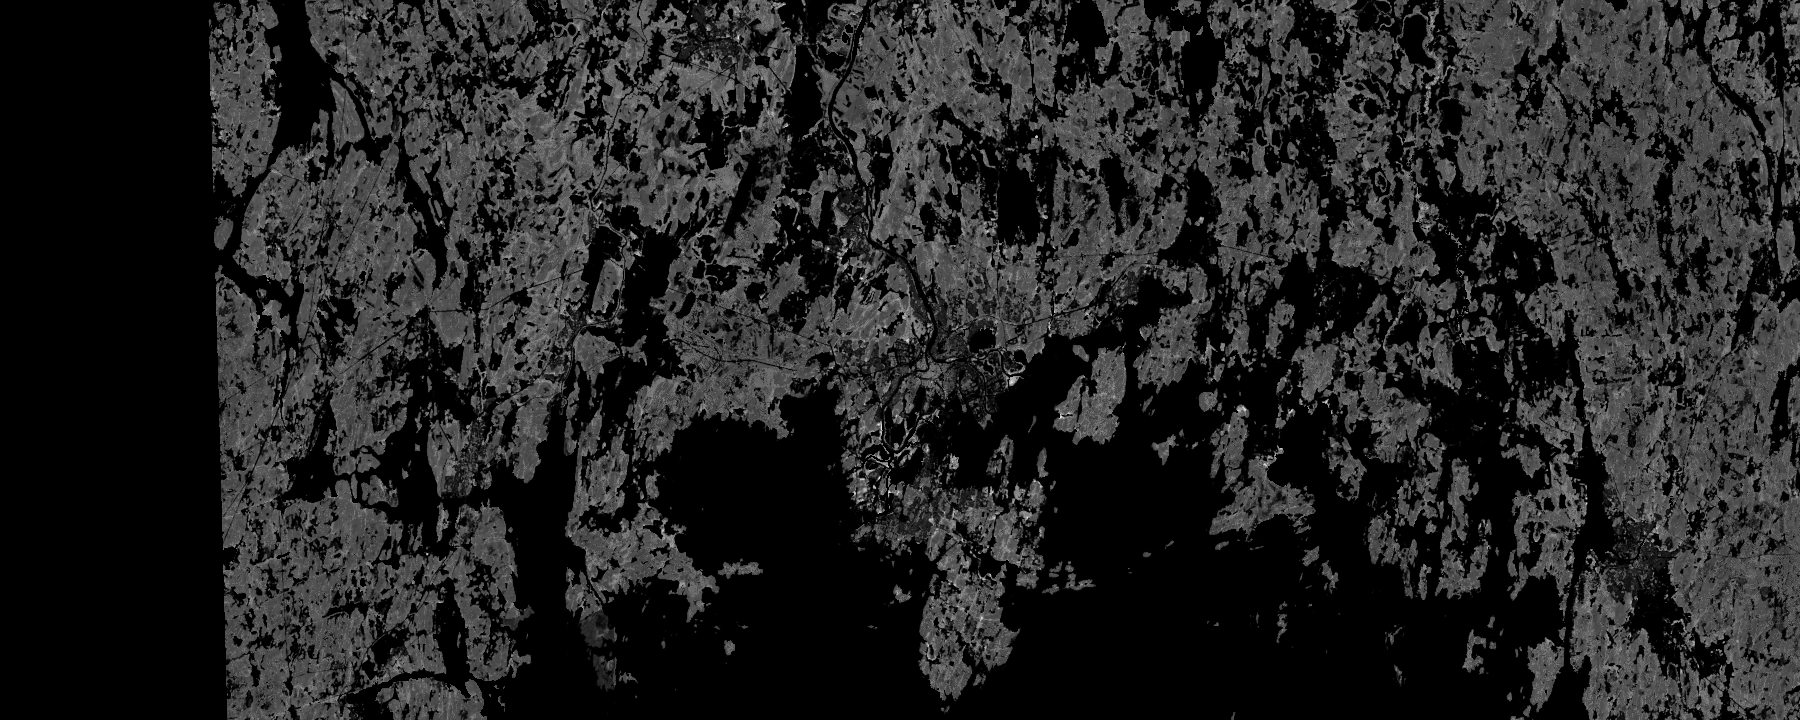
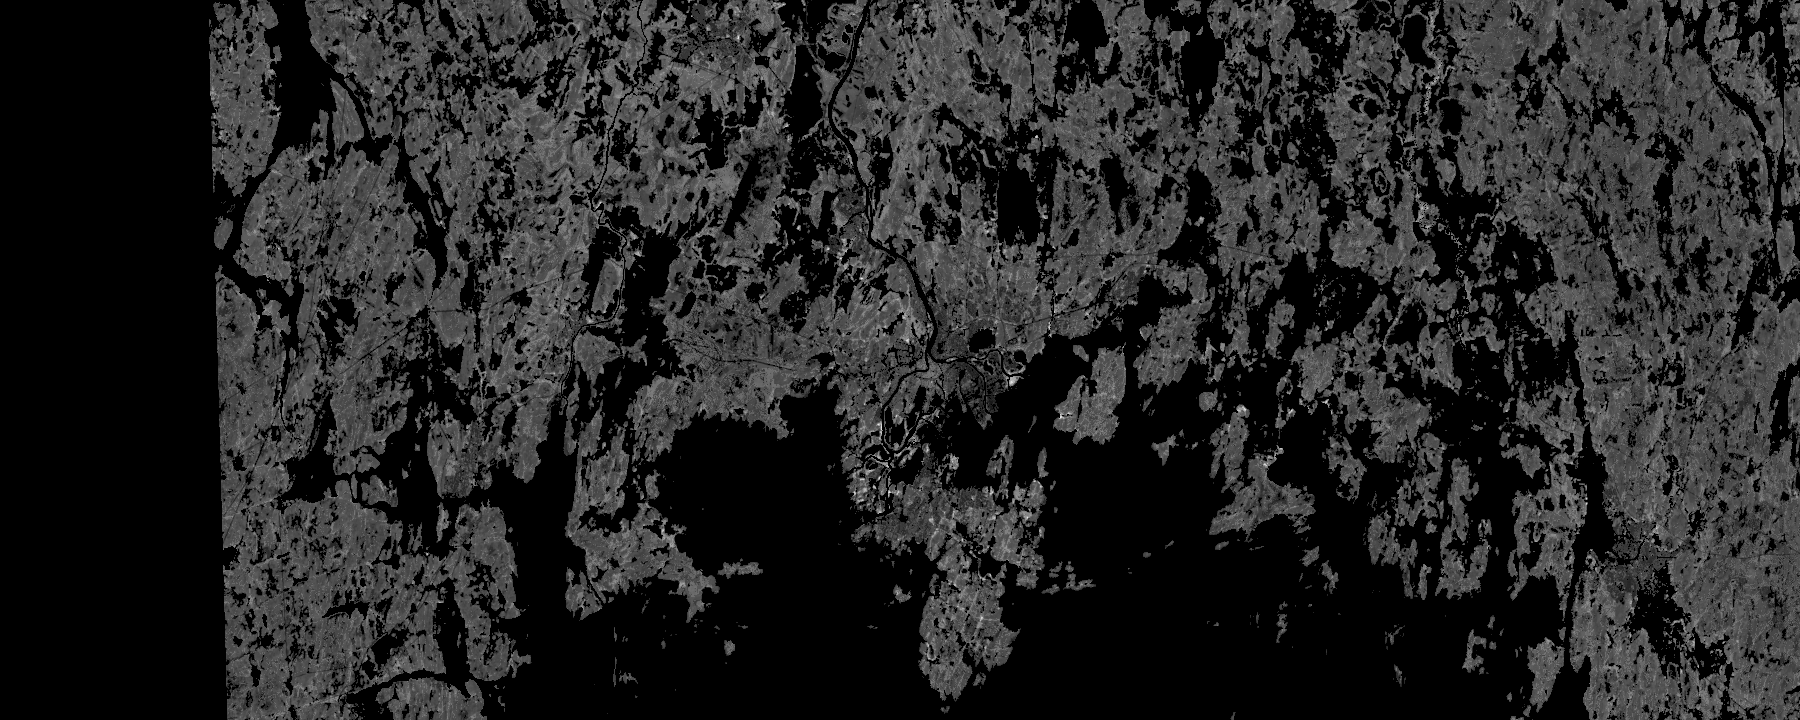
Align habitat suitability with forest cover

diff --git a/index.html b/index.html
@@ -697,7 +697,7 @@ svg.leaflet-image-layer.leaflet-interactive path {
   :root{--bg:#f5f4ef;--card:#fff;--ink:#23261f;--muted:#6c7162;--line:#e4e1d7;--accent:#3a3a34}
   *{box-sizing:border-box}
   body{margin:0;font-family:-apple-system,BlinkMacSystemFont,"Segoe UI",Roboto,Helvetica,Arial,sans-serif;
-    background:var(--bg);color:var(--ink);line-height:1.55}
+    background:var(--bg);color:var(--ink);line-height:1.55;overflow-x:hidden}
   .wrap{max-width:1080px;margin:0 auto;padding:0 18px 70px}
   header.hero{background:linear-gradient(135deg,#242a20,#3c4632 70%,#556a40);color:#fff;padding:40px 18px 34px;text-align:center}
   header.hero h1{margin:0 auto;max-width:900px;font-size:2rem;line-height:1.15}
@@ -719,7 +719,7 @@ svg.leaflet-image-layer.leaflet-interactive path {
   .banner.redlist{background:#fdf1dd;color:#8a5a12;border:1px solid #eecfa0}
   h2{font-size:1.35rem;margin:34px 0 4px;color:#2f3a26}
   .lead{color:var(--muted);margin:0 0 14px;max-width:820px}
-  .card{background:var(--card);border:1px solid var(--line);border-radius:16px;padding:20px;box-shadow:0 4px 14px rgba(30,40,20,.05);margin-top:14px}
+  .card{background:var(--card);border:1px solid var(--line);border-radius:16px;padding:20px;box-shadow:0 4px 14px rgba(30,40,20,.05);margin-top:14px;min-width:0}
   .fc{display:grid;grid-template-columns:1fr 1fr 1fr;gap:14px;margin-top:14px}
   .fcell{background:var(--card);border:1px solid var(--line);border-left:4px solid var(--sp);border-radius:12px;padding:14px 16px}
   .fcell h3{margin:0 0 6px;font-size:.95rem;color:#2f3a26;display:flex;align-items:center;gap:7px}
@@ -729,11 +729,16 @@ svg.leaflet-image-layer.leaflet-interactive path {
   .legend{font-size:.8rem;color:var(--muted);display:flex;gap:16px;flex-wrap:wrap;margin-top:10px;align-items:center}
   .legend b{color:var(--ink)}
   .sw-hex{display:inline-block;width:13px;height:13px;background:#e8552f;border-radius:3px;vertical-align:middle;margin-right:4px}
-  .sw-habitat{display:inline-block;width:48px;height:10px;border-radius:5px;vertical-align:middle;margin-right:5px;background:linear-gradient(90deg,#fae13c,#e8a317,#9b3152)}
+  .habitat-legend{display:inline-flex;gap:8px;align-items:center;flex-wrap:wrap}
+  .habitat-key{display:inline-flex;gap:4px;align-items:center;white-space:nowrap}
+  .habitat-key i{display:inline-block;width:15px;height:11px;border-radius:3px;border:1px solid rgba(20,45,25,.18)}
+  .habitat-key .candidate{background:#ebbe3a}
+  .habitat-key .good{background:#48844f}
+  .habitat-key .best{background:#185532}
   .map-tools{display:grid;grid-template-columns:minmax(260px,1fr) 1.7fr;gap:12px;margin-top:12px}
   .model-box{background:#f3f7ed;border:1px solid #d7e2ca;border-radius:10px;padding:11px 13px;font-size:.82rem;color:#4b5740}
   .model-box b{color:#283423}
-  .model-box button{border:1px solid #526d45;background:#fff;color:#36502e;border-radius:7px;padding:5px 9px;margin-top:7px;cursor:pointer}
+  .model-box button,.model-box select{border:1px solid #526d45;background:#fff;color:#36502e;border-radius:7px;padding:7px 9px;margin-top:7px;cursor:pointer;min-height:36px}
   .model-box button.on{background:#3f5c35;color:#fff}
   .score-pop{min-width:230px}
   .score-pop .score{font-size:1.25rem;font-weight:800;color:var(--sp)}
@@ -768,6 +773,7 @@ svg.leaflet-image-layer.leaflet-interactive path {
   td.num{text-align:right;font-variant-numeric:tabular-nums;font-weight:600;color:#2f3a26}
   .bar{height:8px;background:var(--sp);border-radius:4px;display:inline-block;vertical-align:middle}
   /* coordinate list */
+  #coordList{overflow-x:auto;max-width:100%;min-width:0}
   .coordtbl td{vertical-align:middle}
   .mono{font-variant-numeric:tabular-nums;font-family:ui-monospace,SFMono-Regular,Menlo,monospace;font-weight:600}
   .copybtn{border:1px solid var(--sp);color:var(--sp);background:#fff;border-radius:7px;padding:4px 9px;font-size:.8rem;cursor:pointer;white-space:nowrap}
@@ -841,7 +847,11 @@ svg.leaflet-image-layer.leaflet-interactive path {
   <div class="card">
     <div id="map"></div>
     <div class="legend">
-      <span><span class="sw-habitat"></span><b>Пригодность лесного биотопа:</b> слабая → высокая</span>
+      <span class="habitat-legend"><b>Только лесные кандидаты:</b>
+        <span class="habitat-key"><i class="candidate"></i>40–59</span>
+        <span class="habitat-key"><i class="good"></i>60–74</span>
+        <span class="habitat-key"><i class="best"></i>75–100</span>
+      </span>
       <span><span class="sw-hex"></span><b>Плотность</b> находок (GBIF)</span>
       <span>📍 <b>Свежая находка</b> (см. список ниже)</span>
       <span>🌲 <b>Кандидатный биотоп</b> — описание леса подходит виду; наличие вида в точке не гарантировано</span>
@@ -849,10 +859,16 @@ svg.leaflet-image-layer.leaflet-interactive path {
     </div>
     <div class="map-tools">
       <div class="model-box">
-        <b>Модель Вермланда 12,5 м + грунты SGU</b><br>
-        Породы и структура леса, влажность, песок/морена/глина/торф/скала. Нажми на место или попроси карту найти лучший участок в радиусе 3 км.
+        <b>Лесная маска SLU + пригодность вида</b><br>
+        Цвет показывается только внутри распознанного древостоя. Граница может отличаться от OSM: для проверки включён официальный покров NMD 2023.
         <br><button id="habitatFocus" type="button">Показать Vålberg–Karlstad</button>
         <button id="habitatToggle" class="on" type="button">Слой пригодности включён</button>
+        <label for="habitatThreshold"><br>Показывать оценку от</label>
+        <select id="habitatThreshold">
+          <option value="40" selected>40 · все кандидаты</option>
+          <option value="60">60 · хорошие</option>
+          <option value="75">75 · лучшие</option>
+        </select>
       </div>
       <div class="model-box">
         <b>Что означает число</b><br>
@@ -1151,6 +1167,8 @@ let current='cib', chart=null;
 const map=L.map('map',{scrollWheelZoom:false}).setView([62.5,16.5],4);
 map.createPane('habitatPane');
 map.getPane('habitatPane').style.zIndex=320;
+map.createPane('forestReferencePane');
+map.getPane('forestReferencePane').style.zIndex=300;
 map.createPane('officialForestPane');
 map.getPane('officialForestPane').style.zIndex=340;
 map.createPane('observationsPane');
@@ -1172,14 +1190,15 @@ function sksWms(service,layer,opacity){
     pane:'officialForestPane',attribution:'Skogsstyrelsen'
   });
 }
+const nmdForest=L.tileLayer.wms('https://geodata.naturvardsverket.se/inspire/lc-nmd/ows?',{
+  layers:'LC.LandCoverRaster.Bas_2.0',format:'image/png',transparent:true,opacity:.42,
+  pane:'forestReferencePane',attribution:'NMD / Naturvårdsverket'
+}).addTo(map);
 const officialLayers={
   'SGU · тип грунта':L.imageOverlay('assets/habitat/soil-overlay.png',HABITAT_BOUNDS,{
     pane:'officialForestPane',opacity:.66,attribution:'SGU Jordarter'
   }),
-  'NMD 2023 · покров и тип леса':L.tileLayer.wms('https://geodata.naturvardsverket.se/inspire/lc-nmd/ows?',{
-    layers:'LC.LandCoverRaster.Bas_2.0',format:'image/png',transparent:true,opacity:.58,
-    pane:'officialForestPane',attribution:'NMD / Naturvårdsverket'
-  }),
+  'NMD 2023 · покров и тип леса':nmdForest,
   'Skogsstyrelsen · заболоченный лес':sksWms('GeodataportalVisaSumpskog','Sumpskog_Skogsstyrelsen',.55),
   'Skogsstyrelsen · ключевые биотопы':sksWms('GeodataportalVisaNyckelbiotop','Nyckelbiotop_Skogsstyrelsen',.65),
   'Skogsstyrelsen · объекты природной ценности':sksWms('GeodataportalVisaObjektnaturvarde','Objektnaturvarde_Skogsstyrelsen',.65),
@@ -1193,7 +1212,7 @@ L.control.layers({
 },officialLayers,{position:'topright',collapsed:true}).addTo(map);
 map.fitBounds([[55.2,11.0],[69.0,24.5]]);
 let densityLayer=null, pinLayer=L.layerGroup().addTo(map), selectedLayer=L.layerGroup().addTo(map);
-let habitatLayer=null, habitatEnabled=true;
+let habitatLayer=null, habitatEnabled=true, habitatThreshold=40, habitatRenderRequest=0;
 const scoreImages={};
 let selectedPoint=null, selectionRequest=0;
 const weatherCache={};
@@ -1201,13 +1220,33 @@ const weatherCache={};
 function densityUrl(taxon){
   return 'https://api.gbif.org/v2/map/occurrence/density/{z}/{x}/{y}@1x.png?taxonKey='+taxon+'&country=SE&bin=hex&hexPerTile=30&style=classic-noborder.poly';
 }
-function updateHabitatLayer(){
+function habitatColour(score){
+  if(score>=75) return [24,85,50,225];
+  if(score>=60) return [72,132,79,190];
+  return [235,190,58,150];
+}
+async function updateHabitatLayer(){
+  const request=++habitatRenderRequest;
   if(habitatLayer) map.removeLayer(habitatLayer);
-  habitatLayer=L.imageOverlay('assets/habitat/'+current+'-overlay.png',HABITAT_BOUNDS,{
+  if(!habitatEnabled) return;
+  const ctx=await loadScoreImage(current);
+  if(request!==habitatRenderRequest) return;
+  const source=ctx.getImageData(0,0,HABITAT_SIZE.width,HABITAT_SIZE.height).data;
+  const canvas=document.createElement('canvas');
+  canvas.width=HABITAT_SIZE.width;canvas.height=HABITAT_SIZE.height;
+  const out=canvas.getContext('2d').createImageData(HABITAT_SIZE.width,HABITAT_SIZE.height);
+  for(let i=0;i<source.length;i+=4){
+    const score=source[i]/255*100;
+    if(score<habitatThreshold) continue;
+    const colour=habitatColour(score);
+    out.data[i]=colour[0];out.data[i+1]=colour[1];out.data[i+2]=colour[2];out.data[i+3]=colour[3];
+  }
+  canvas.getContext('2d').putImageData(out,0,0);
+  habitatLayer=L.imageOverlay(canvas.toDataURL('image/png'),HABITAT_BOUNDS,{
     pane:'habitatPane',opacity:.78,interactive:false,
     attribution:'SLU Skogskarta & SLU Markfuktighet / Skogsstyrelsen'
   });
-  if(habitatEnabled) habitatLayer.addTo(map);
+  habitatLayer.addTo(map);
 }
 function loadScoreImage(species){
   if(scoreImages[species]) return scoreImages[species];
@@ -1251,7 +1290,7 @@ function habitatPixel(latlng){
   };
 }
 function scoreLabel(score){
-  if(score<20) return 'лес по модели не распознан или пригодность очень низкая';
+  if(score<20) return 'вне лесной маски или пригодность очень низкая';
   if(score<40) return 'низкая';
   if(score<60) return 'умеренная';
   if(score<80) return 'хорошая';
@@ -1380,9 +1419,16 @@ function drawMap(){
 
 document.getElementById('habitatToggle').addEventListener('click',e=>{
   habitatEnabled=!habitatEnabled;
-  if(habitatEnabled) habitatLayer.addTo(map); else map.removeLayer(habitatLayer);
+  if(habitatEnabled) updateHabitatLayer(); else {
+    habitatRenderRequest++;
+    if(habitatLayer) map.removeLayer(habitatLayer);
+  }
   e.currentTarget.classList.toggle('on',habitatEnabled);
   e.currentTarget.textContent=habitatEnabled?'Слой пригодности включён':'Слой пригодности выключен';
+});
+document.getElementById('habitatThreshold').addEventListener('change',e=>{
+  habitatThreshold=Number(e.currentTarget.value);
+  updateHabitatLayer();
 });
 document.getElementById('habitatFocus').addEventListener('click',()=>map.fitBounds(HABITAT_BOUNDS,{padding:[12,12]}));
 document.getElementById('selectedCopy').addEventListener('click',e=>{

diff --git a/scripts/build_varmland_habitat.py b/scripts/build_varmland_habitat.py
@@ -146,20 +146,29 @@ def suitability(
     moisture: np.ndarray,
     maturity: np.ndarray,
     forest_structure: np.ndarray,
+    forest_mask: np.ndarray,
     soil: np.ndarray,
 ) -> np.ndarray:
-    score = forest_structure * (0.52 * host + 0.23 * moisture + 0.17 * maturity + 0.08 * soil)
+    # Structure adjusts the score inside forest, but never creates suitability
+    # outside the independently calculated forest mask.
+    structure_weight = 0.70 + 0.30 * forest_structure
+    score = structure_weight * (
+        0.52 * host + 0.23 * moisture + 0.17 * maturity + 0.08 * soil
+    )
+    score[~forest_mask] = 0
     return np.clip(np.nan_to_num(score) * 100.0, 0, 100)
 
 
-def make_display(score: np.ndarray, color: tuple[int, int, int]) -> np.ndarray:
+def make_display(score: np.ndarray, forest_mask: np.ndarray) -> np.ndarray:
+    """Render only actionable candidates, using fixed semantic score colours."""
     rgba = np.zeros((*score.shape, 4), dtype=np.uint8)
-    strength = np.clip(score / 100.0, 0, 1)
-    low = np.array((250, 225, 60), dtype=np.float32)
-    high = np.array(color, dtype=np.float32)
-    rgb = low[None, None, :] * (1 - strength[..., None]) + high[None, None, :] * strength[..., None]
-    rgba[..., :3] = rgb.astype(np.uint8)
-    rgba[..., 3] = np.where(score >= 20, 45 + strength * 175, 0).astype(np.uint8)
+    bands = (
+        (40, 60, (235, 190, 58, 150)),
+        (60, 75, (72, 132, 79, 190)),
+        (75, 101, (24, 85, 50, 225)),
+    )
+    for low, high, colour in bands:
+        rgba[forest_mask & (score >= low) & (score < high)] = colour
     return rgba
 
 
@@ -187,11 +196,21 @@ def main() -> None:
     shares = [item / safe_total for item in (pine, spruce, birch, oak, beech)]
     pine_s, spruce_s, birch_s, oak_s, beech_s = shares
 
-    # Total estimated volume is used only as a soft forest-structure mask.
+    # A hard mask prevents fields, roads and built-up pixels from receiving a
+    # habitat colour. The volume threshold is deliberately conservative.
     # Mean diameter is a proxy for stand maturity, not a measured stand age.
-    forest_structure = np.clip((total - 8) / 80, 0, 1)
+    forest_mask = (
+        np.isfinite(total)
+        & np.isfinite(data["diameter"])
+        & (total >= 20)
+        & np.isin(data["moisture"], (1, 2, 3))
+    )
+    forest_structure = np.clip((total - 20) / 70, 0, 1)
     maturity = np.clip((np.maximum(data["diameter"], 0) - 8) / 22, 0, 1)
     moist = data["moisture"]
+    Image.fromarray((forest_mask * 255).astype(np.uint8), "L").save(
+        args.output_dir / "forest-mask.png", optimize=True
+    )
     soil_classes = read_soil_grid(args.soil_geojson)
     Image.fromarray(soil_classes, "L").save(args.output_dir / "soil-category.png", optimize=True)
     Image.fromarray(make_soil_display(soil_classes), "RGBA").save(
@@ -224,15 +243,22 @@ def main() -> None:
 
     stats: dict[str, dict[str, float]] = {}
     for species in COLORS:
-        score = suitability(host[species], moisture[species], maturity, forest_structure, soil[species])
+        score = suitability(
+            host[species],
+            moisture[species],
+            maturity,
+            forest_structure,
+            forest_mask,
+            soil[species],
+        )
         score[soil_classes == 255] = 0
         Image.fromarray(np.rint(score * 2.55).astype(np.uint8), "L").save(
             args.output_dir / f"{species}-score.png", optimize=True
         )
-        Image.fromarray(make_display(score, COLORS[species]), "RGBA").save(
+        Image.fromarray(make_display(score, forest_mask), "RGBA").save(
             args.output_dir / f"{species}-overlay.png", optimize=True
         )
-        forest_scores = score[forest_structure > 0.15]
+        forest_scores = score[forest_mask]
         stats[species] = {
             "p50": round(float(np.percentile(forest_scores, 50)), 1),
             "p90": round(float(np.percentile(forest_scores, 90)), 1),
@@ -240,13 +266,15 @@ def main() -> None:
         }
 
     metadata = {
-        "model": "varmland-habitat-v2",
+        "model": "varmland-habitat-v3",
         "generated": "2026-07-27",
         "bboxWgs84": list(BBOX_WGS84),
         "width": WIDTH,
         "height": HEIGHT,
         "cellSourceMetres": 12.5,
         "scoreMeaning": "habitat suitability, not mushroom occurrence probability",
+        "forestMask": "tree volume >= 20, valid mean diameter and SLU moisture class",
+        "displayBands": {"hidden": "<40", "candidate": "40-59", "good": "60-74", "best": "75-100"},
         "inputs": {name: path.name for name, path in paths.items()},
         "soilInput": [path.name for path in args.soil_geojson],
         "soilCategories": {str(key): value for key, value in SOIL_CATEGORIES.items()},

diff --git a/FOREST_AUDIT.md b/FOREST_AUDIT.md
@@ -153,6 +153,12 @@ Skogsstyrelsen/SLU по Värmlands län:
   рубки подключены как отдельные живые WMS-слои Skogsstyrelsen и должны
   проверяться перед поездкой.
 
+После визуальной проверки слой переведён с мягкой заливки на строгую лесную
+маску. Пиксель считается лесным только при достаточном суммарном объёме
+древесины, валидном среднем диаметре и наличии класса влажности SLU. Значения
+ниже 40 по умолчанию прозрачны; диапазоны 40–59, 60–74 и 75–100 имеют
+фиксированные цвета, а официальный NMD 2023 включён как контроль границ леса.
+
 Исходные породные растра имеют ячейку 12,5 × 12,5 м. Для браузера они
 перепроецированы и агрегированы в компактную сетку; это не повышает точность
 исходных данных. Код расчёта сохранён в `scripts/build_varmland_habitat.py`,
